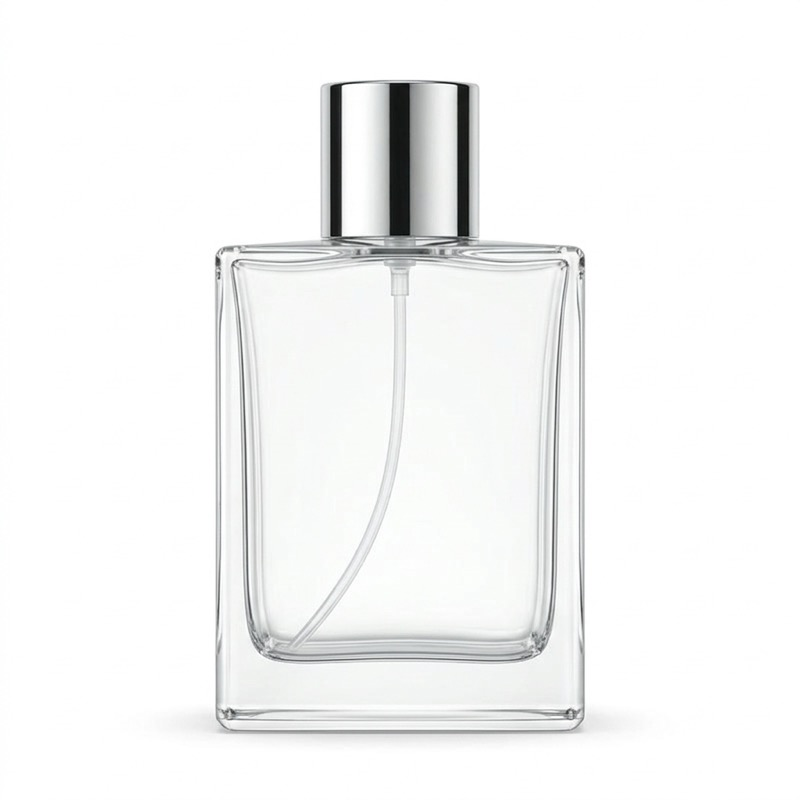
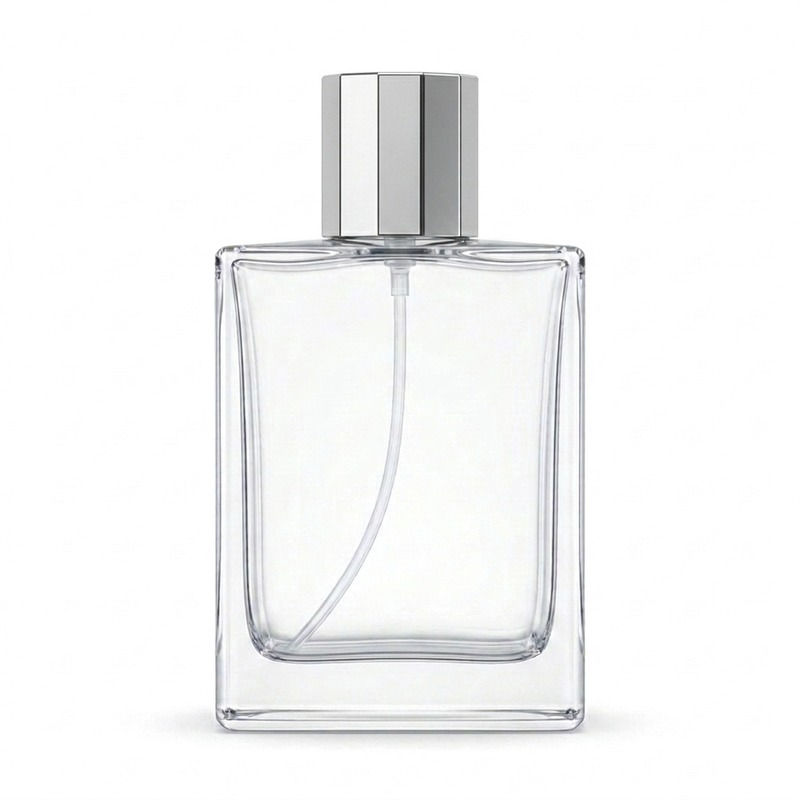
fix(catalog): update Bote Cosmo 100ml with faceted polygonal silver cap

Changed region(s): [[0.375, 0.0625, 0.625, 0.3125]]

diff --git a/src/lib/store.ts b/src/lib/store.ts
@@ -1858,7 +1858,7 @@ export const INITIAL_PRODUCTS: ProductItem[] = [
     "cost": 0.55,
     "stock": 0,
     "minStock": 15,
-    "imageUrl": "/images/botes/bote_100ml_cosmo.jpg",
+    "imageUrl": "/images/botes/bote_100ml_cosmo.jpg?v=2",
     "description": "Frasco cuadrado de vidrio pesado transparente 100ml con base gruesa, cierre de rosca y tapa cilíndrica metálica plateada cromada.",
     "isAvailableOnline": true,
     "puesto": "B6",

diff --git a/src/lib/cricutStickers.ts b/src/lib/cricutStickers.ts
@@ -2536,7 +2536,7 @@ export const STICKER_BOTTLE_MOCKUPS: StickerBottleMockupConfig[] = [
     name: 'Bote Cosmo 100ml Rosca',
     shortName: 'Bote Cosmo 100ml',
     subtitle: 'Cuadrado vidrio pesado • Tapa cilíndrica plateada',
-    bottleImageUrl: '/images/botes/bote_100ml_cosmo.jpg',
+    bottleImageUrl: '/images/botes/bote_100ml_cosmo.jpg?v=2',
     cx: 400,
     cy: 495,
     targetWidth: 248,

diff --git a/src/lib/bottles.ts b/src/lib/bottles.ts
@@ -428,7 +428,7 @@ export const MOCK_100ML_BOTTLES: ProductItem[] = [
     cost: 0.55,
     stock: 0,
     minStock: 15,
-    imageUrl: '/images/botes/bote_100ml_cosmo.jpg',
+    imageUrl: '/images/botes/bote_100ml_cosmo.jpg?v=2',
     isAvailableOnline: true,
     puesto: 'B6',
   },
